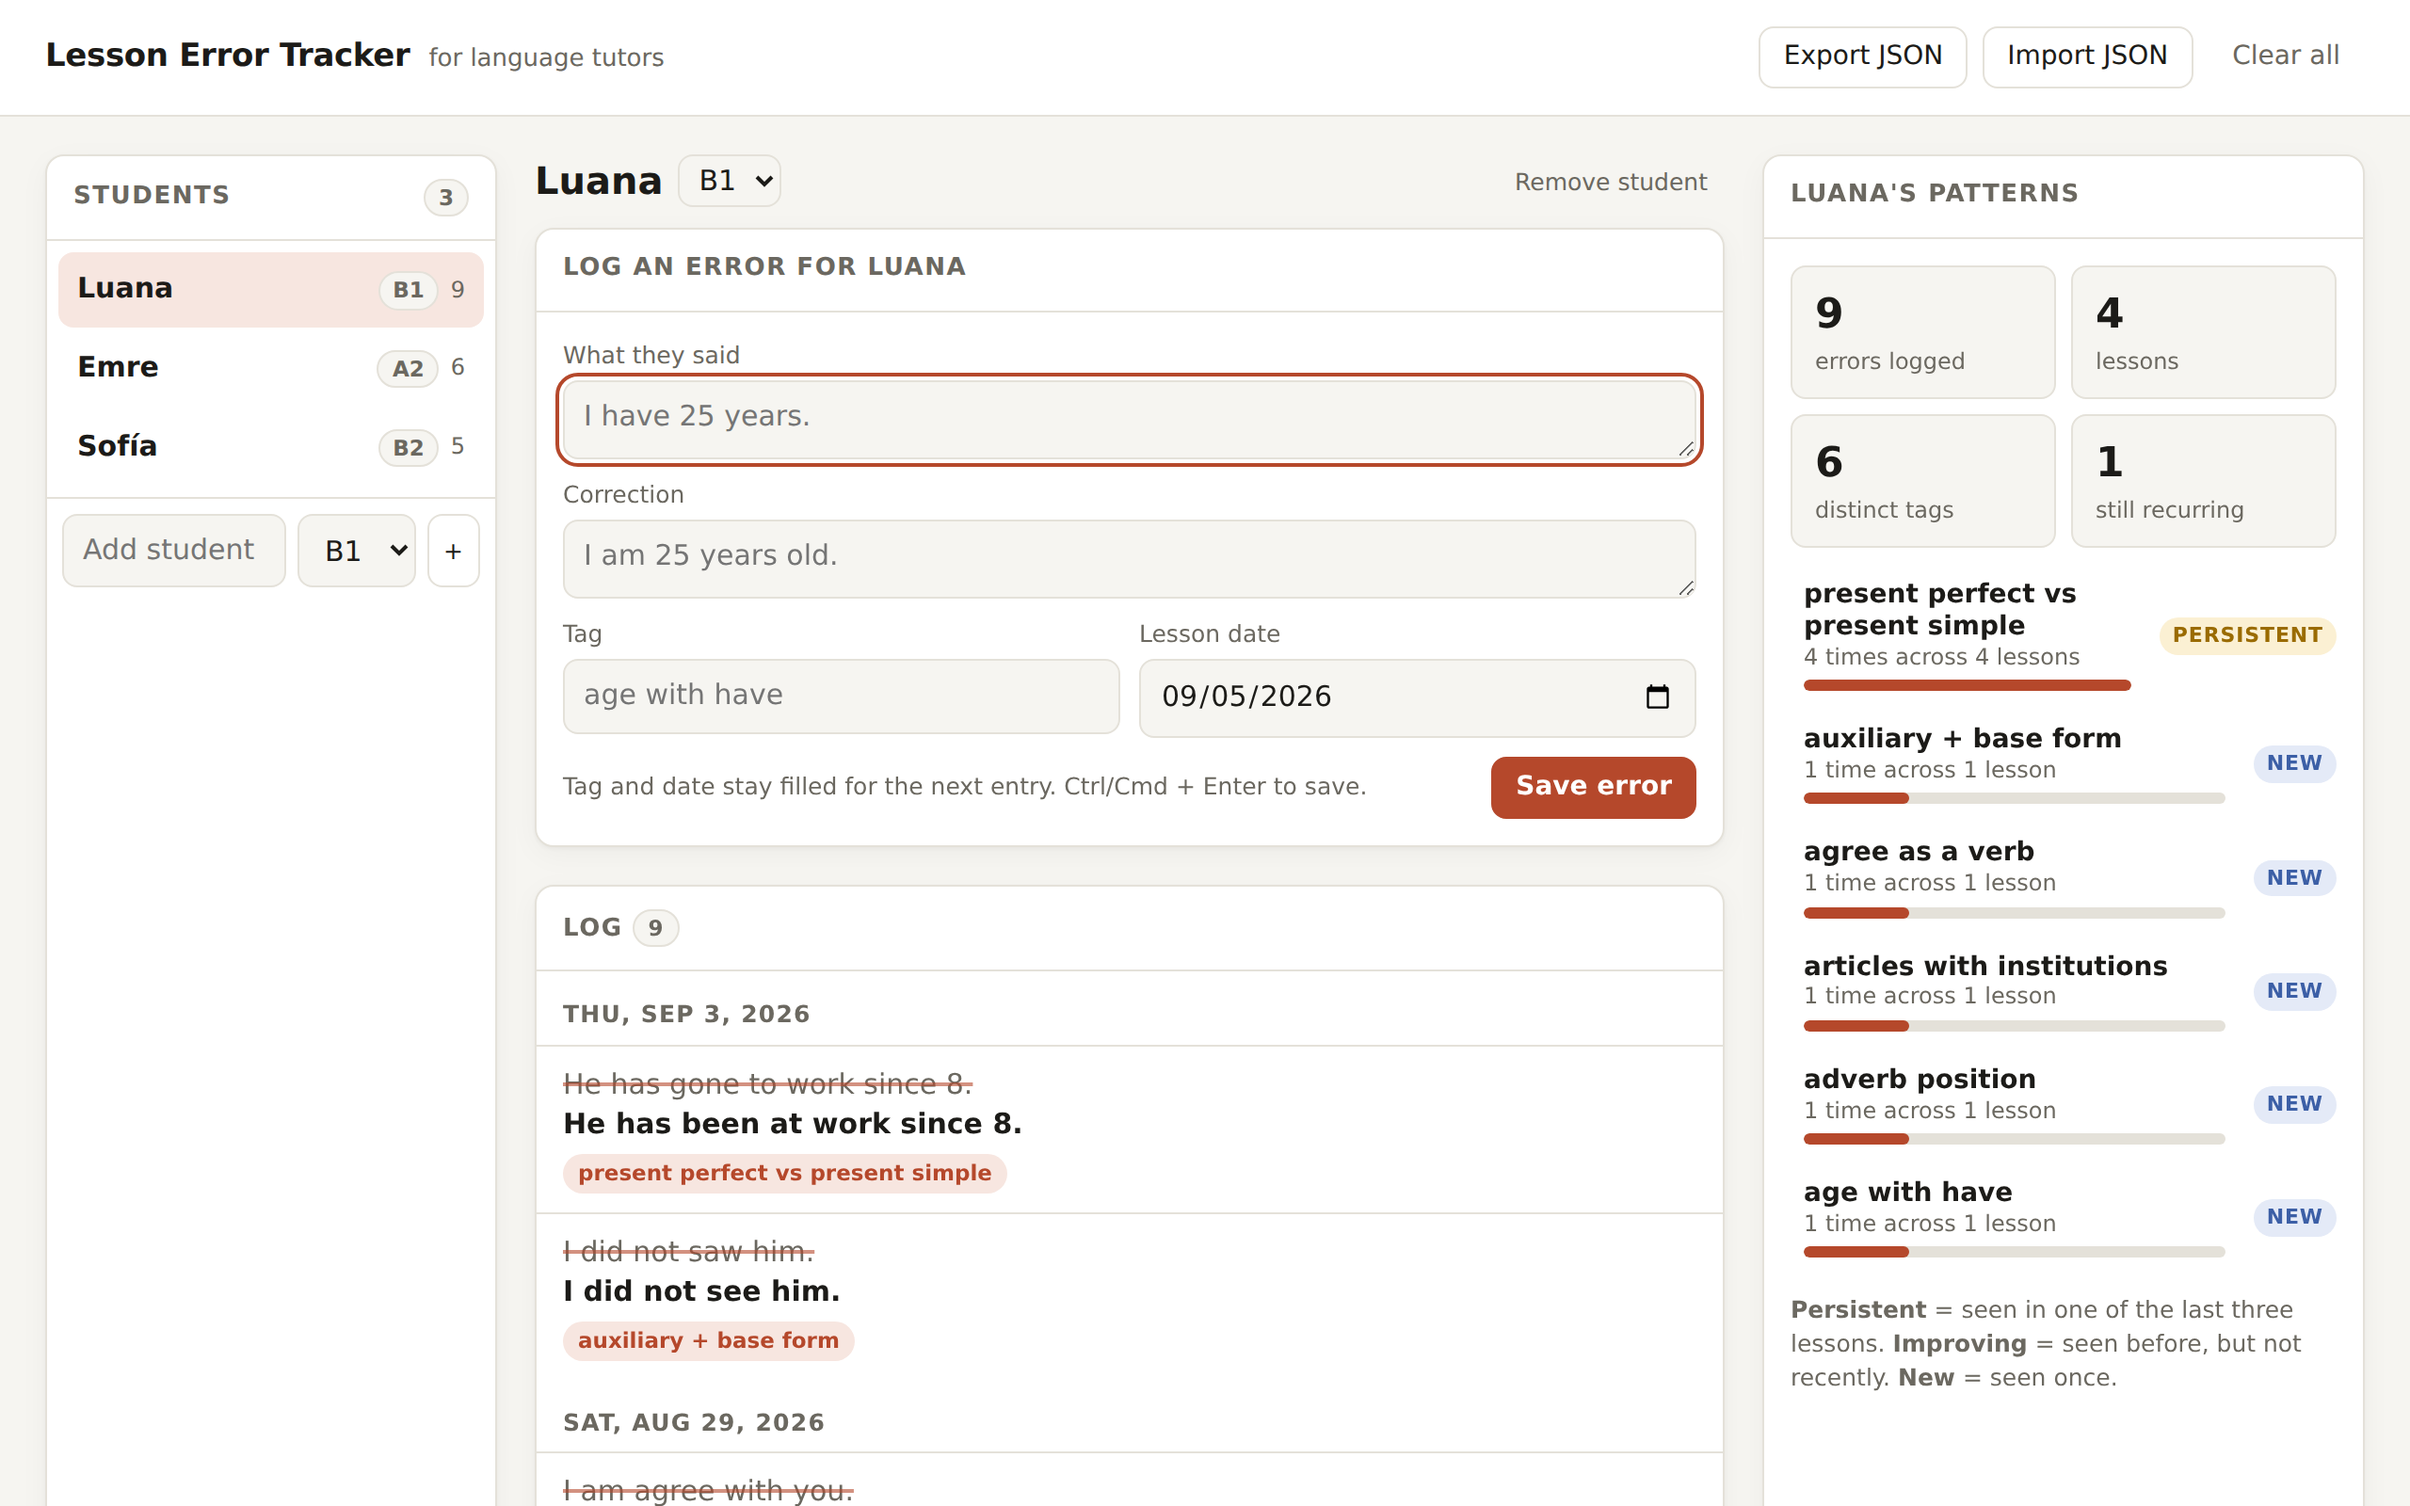
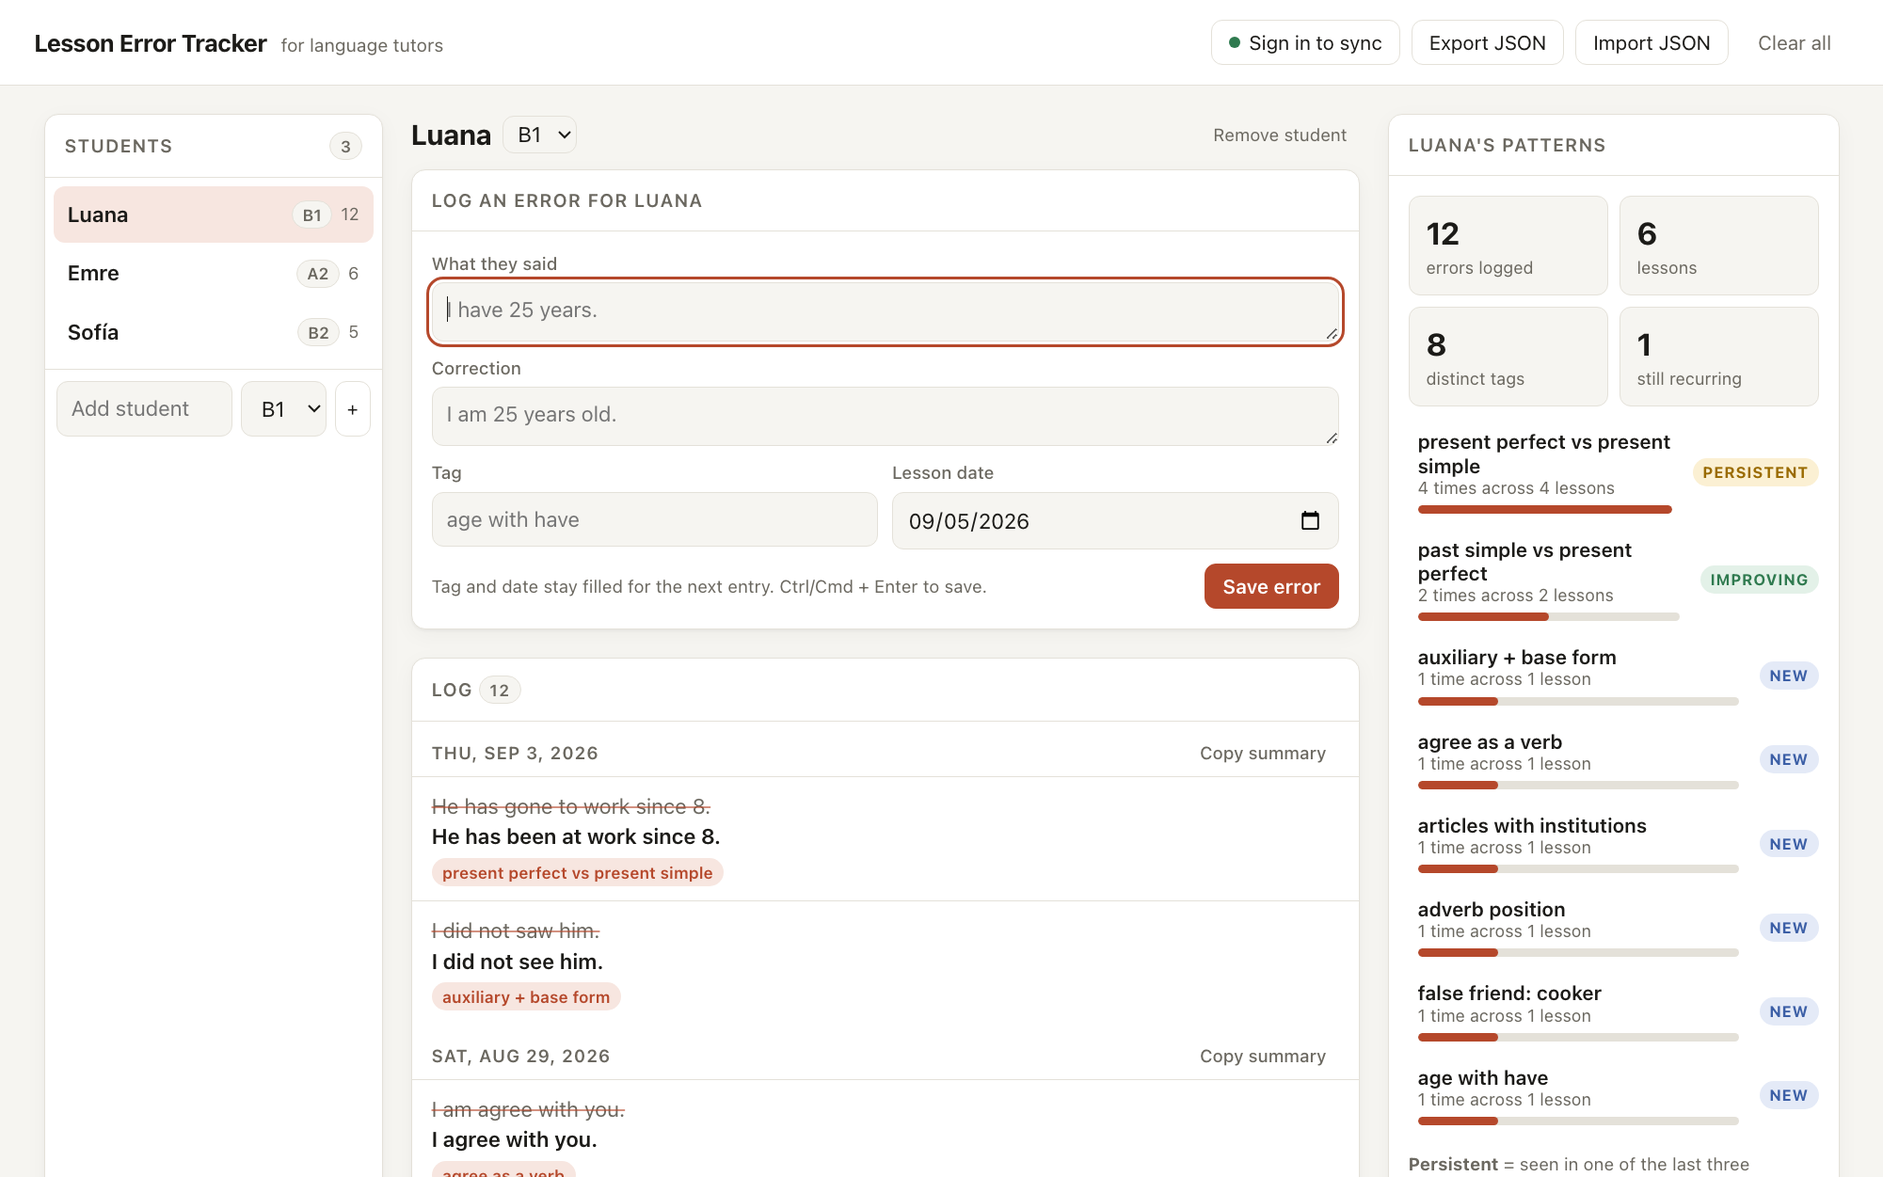
Retake the README screenshot
The previous picture predated the lesson summary and sync. This one shows
Copy summary on each lesson, all three trend badges, and the sync button.

diff --git a/README.md b/README.md
@@ -9,7 +9,7 @@ A small, local-first app for language tutors. During a lesson you log what the s
 **How it all works, in plain language:** [docs/architecture.md](docs/architecture.md)
 **How I made sure I understand it:** [docs/study-guide.md](docs/study-guide.md). I built this with an AI assistant as a pair programmer; the study guide is the vocabulary, the decisions with their alternatives, and the questions the project invites, written so I can defend every part of it.
 
-![Screenshot of Lesson Error Tracker showing a student's error log and ranked error patterns](docs/screenshot.png)
+![Screenshot of Lesson Error Tracker: a student's error log grouped by lesson with a Copy summary action on each, ranked error patterns marked persistent, improving, or new, and a Sign in to sync button](docs/screenshot.png)
 
 ## Why
 
